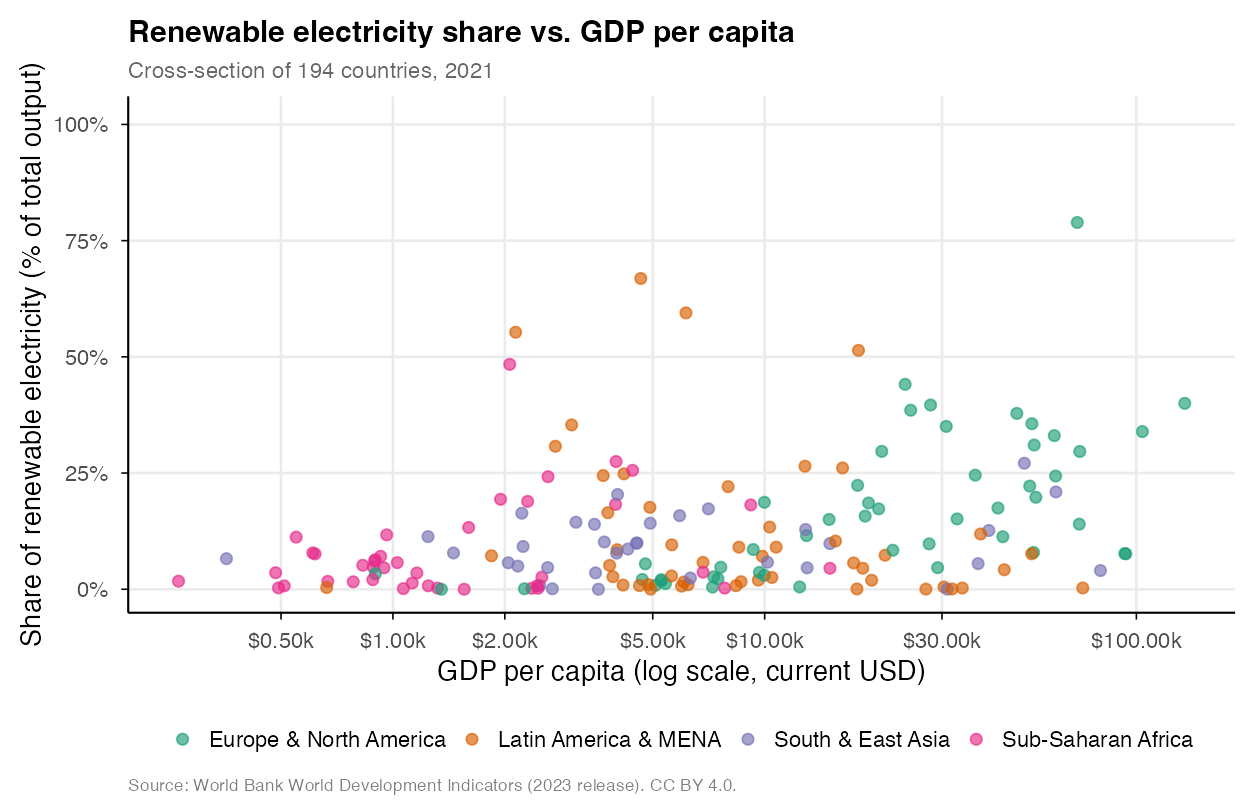
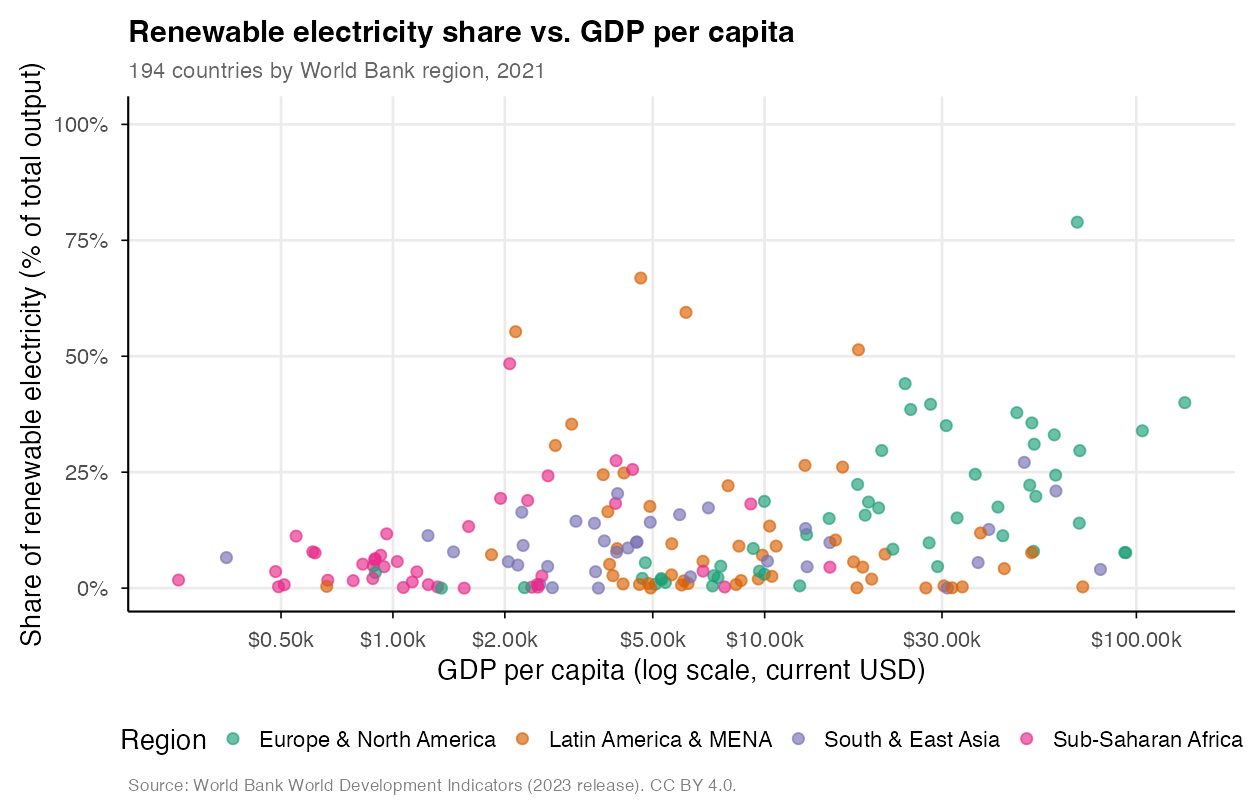
Add README for figures code, adjust figures code to include figure 8

diff --git a/output/Brief_ElectricityAccess.tex b/output/Brief_ElectricityAccess.tex
@@ -1,0 +1,58 @@
+\documentclass[12pt]{article}
+\usepackage[margin=1in]{geometry}
+\usepackage{graphicx}
+\usepackage[hidelinks]{hyperref}
+\usepackage{float}
+
+\title{Global Electricity Access and Renewable Energy: Key Patterns}
+\author{Grace Carver}
+\date{May 2026}
+
+\pagestyle{empty}
+
+\begin{document}
+
+\vspace*{-2cm}
+\maketitle
+\vspace{-1.5cm}
+
+\section*{Overview}
+
+Electricity access and renewable energy adoption are foundational to economic development and climate action. This brief summarizes global patterns in electricity access and the adoption of renewable energy sources across countries, with emphasis on disparities by income level and region. Data are drawn from the World Bank's World Development Indicators (2021 cross-section; 2000–2021 time series).
+
+\section*{Income and Electricity Access}
+
+\begin{figure}[H]
+\centering
+\includegraphics[width=0.9\linewidth]{2026_Application_Day_3/output/figures/day4/fig1_access_vs_gdp_scatter.png}
+\end{figure}
+
+Electricity access exhibits a strong income gradient. Countries with GDP per capita below \$5,000 show wide variation in access (10\% to 100\%), while nearly all countries above \$20,000 per capita achieve near-universal access. Sub-Saharan Africa lags significantly: most countries in this region cluster in the lower-left (low income, incomplete access), whereas Europe and North America occupy the upper-right (high income, high access). This pattern reflects both the capital requirements for electrification and the concentration of economic activity in electrified areas. Notably, South and East Asia shows rapid progress: several countries have escaped the income-access trap through targeted infrastructure investment.
+
+\section*{Income and Renewable Energy}
+
+\begin{figure}[H]
+\centering
+\includegraphics[width=0.9\linewidth]{2026_Application_Day_3/output/figures/day4/fig2_renewable_vs_gdp_scatter.png}
+\end{figure}
+
+Renewable electricity adoption shows less clear dependence on income than access does. While some high-income countries cluster at high renewable shares (particularly Europe and North America, driven by hydropower, wind, and solar), others remain below 20\% renewable despite wealth. Conversely, some low-income countries achieve substantial renewable shares, typically through abundant hydropower (e.g., Sub-Saharan Africa) or biomass. This suggests that renewable adoption is driven more by geography and resource endowment than by income alone. Regional variation is pronounced: Latin America and MENA show significant renewable capacity, often from hydropower and solar resources.
+
+\section*{Regional Trends: Pace of Expansion}
+
+\begin{figure}[H]
+\centering
+\includegraphics[width=0.9\linewidth]{2026_Application_Day_3/output/figures/day4/fig8_access_regional_facets.png}
+\end{figure}
+
+Electricity access has expanded globally since 2000, but the pace and current level vary markedly by region. Europe and North America began above 95\% access and have reached saturation. Latin America and MENA saw modest gains from already-high baselines (85\% to 95\%), while South and East Asia achieved the steepest growth: rising from roughly 75\% in 2000 to near 95\% in 2021. Sub-Saharan Africa, starting from the lowest baseline (around 25\%), has expanded access to approximately 50\% over the two decades—substantial progress in absolute terms, but the slowest pace of improvement and the largest remaining access gap. This regional divergence reflects both historical infrastructure investment and current capacity constraints.
+
+\section*{Sources}
+
+World Bank. (2023). \textit{World Development Indicators}. Retrieved from \url{https://data.worldbank.org/}. Data accessed May 2026. License: CC BY 4.0.
+
+\smallskip
+
+Indicators: Electricity access (share of population, \%); Renewable electricity output (share of total electricity output, \%); GDP per capita (current USD, log scale).
+
+\end{document}

diff --git a/code/04_figures_README.md b/code/04_figures_README.md
@@ -1,0 +1,87 @@
+# Figures: Economic Development and Environmental Indicators
+
+All figures generated from World Bank World Development Indicators (2023 release).
+License: CC BY 4.0.
+
+## Figure Catalog
+
+### Figure 1: Electricity access vs. GDP per capita
+**File:** `fig1_access_vs_gdp_scatter.png`
+
+Cross-sectional scatter plot (2021 data, 196 countries) showing the relationship between GDP per capita (log scale, current USD) and electricity access (% of population). Points colored by World Bank region (4 regions: Sub-Saharan Africa, South & East Asia, Europe & North America, Latin America & MENA).
+
+**Size:** 7" × 4.5" at 180 dpi
+
+---
+
+### Figure 2: Renewable electricity share vs. GDP per capita
+**File:** `fig2_renewable_vs_gdp_scatter.png`
+
+Cross-sectional scatter plot (2021 data, 194 countries) showing the relationship between GDP per capita (log scale) and share of renewable electricity (% of total output). Points colored by World Bank region.
+
+**Size:** 7" × 4.5" at 180 dpi
+
+---
+
+### Figure 3: Electricity access over time
+**File:** `fig3_access_timeseries.png`
+
+Time series of electricity access (2000–2021) for six selected large low- and middle-income countries: India, Nigeria, Ethiopia, Bangladesh, Indonesia, Pakistan. Lines connect annual data points; final year (2021) marked with larger dots and country labels.
+
+**Size:** 7" × 4.5" at 180 dpi
+
+---
+
+### Figure 4: Renewable electricity share over time
+**File:** `fig4_renewable_timeseries.png`
+
+Time series of renewable electricity share (2000–2021) for six selected economies: Norway, Brazil, Germany, China, United States, India. Lines connect annual data points; final year (2021) marked with larger dots and country labels.
+
+**Size:** 7" × 4.5" at 180 dpi
+
+---
+
+### Figure 5: Distribution of electricity access, 2000 vs. 2020
+**File:** `fig5_access_distribution_shift.png`
+
+Overlaid density plots showing the distribution of electricity access across ~180 countries in 2000 (red) and 2020 (blue). Semi-transparent fill allows comparison of distribution shape and central tendency across the two decades.
+
+**Size:** 7" × 4.5" at 180 dpi
+
+---
+
+### Figure 6: Countries with lowest electricity access
+**File:** `fig6_access_bottom20.png`
+
+Horizontal bar chart of the 20 countries with lowest electricity access (2021 data), sorted from lowest to highest. Bars labeled with percentage values.
+
+**Size:** 7" × 5.5" at 180 dpi
+
+---
+
+### Figure 7: Countries with highest renewable electricity share
+**File:** `fig7_renewable_top20.png`
+
+Horizontal bar chart of the 20 countries with highest renewable electricity share (2021 data), sorted from highest to lowest. Bars labeled with percentage values.
+
+**Size:** 7" × 5.5" at 180 dpi
+
+---
+
+### Figure 8: Electricity access trends by region
+**File:** `fig8_access_regional_facets.png`
+
+Faceted line plot showing average electricity access trends (2000–2021) across four World Bank regions: Europe & North America, Latin America & MENA, South & East Asia, Sub-Saharan Africa. Each panel shows one region's trend; different colors distinguish regions for clarity when viewed in sequence.
+
+**Size:** 8" × 6" at 180 dpi
+
+---
+
+## Technical Details
+
+- **Resolution:** 180 dpi (suitable for print and web)
+- **Format:** PNG with white background
+- **Theme:** Minimal publication-ready theme with grey gridlines, black axes
+- **Data year:** 2021 (cross-sectional); 2000–2021 (time series)
+- **Source:** World Bank World Development Indicators API
+- **Generation:** `code/04_figures.R`